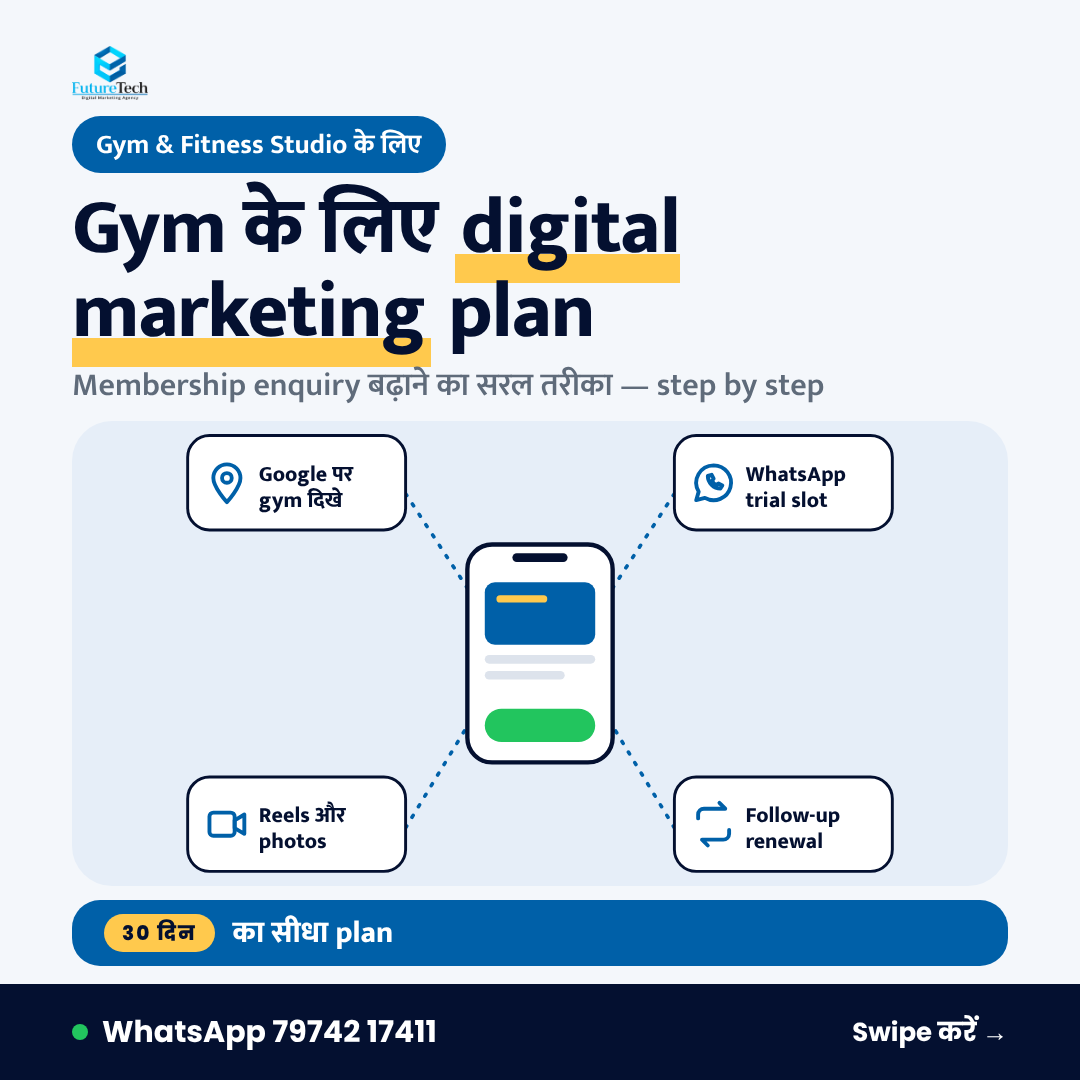
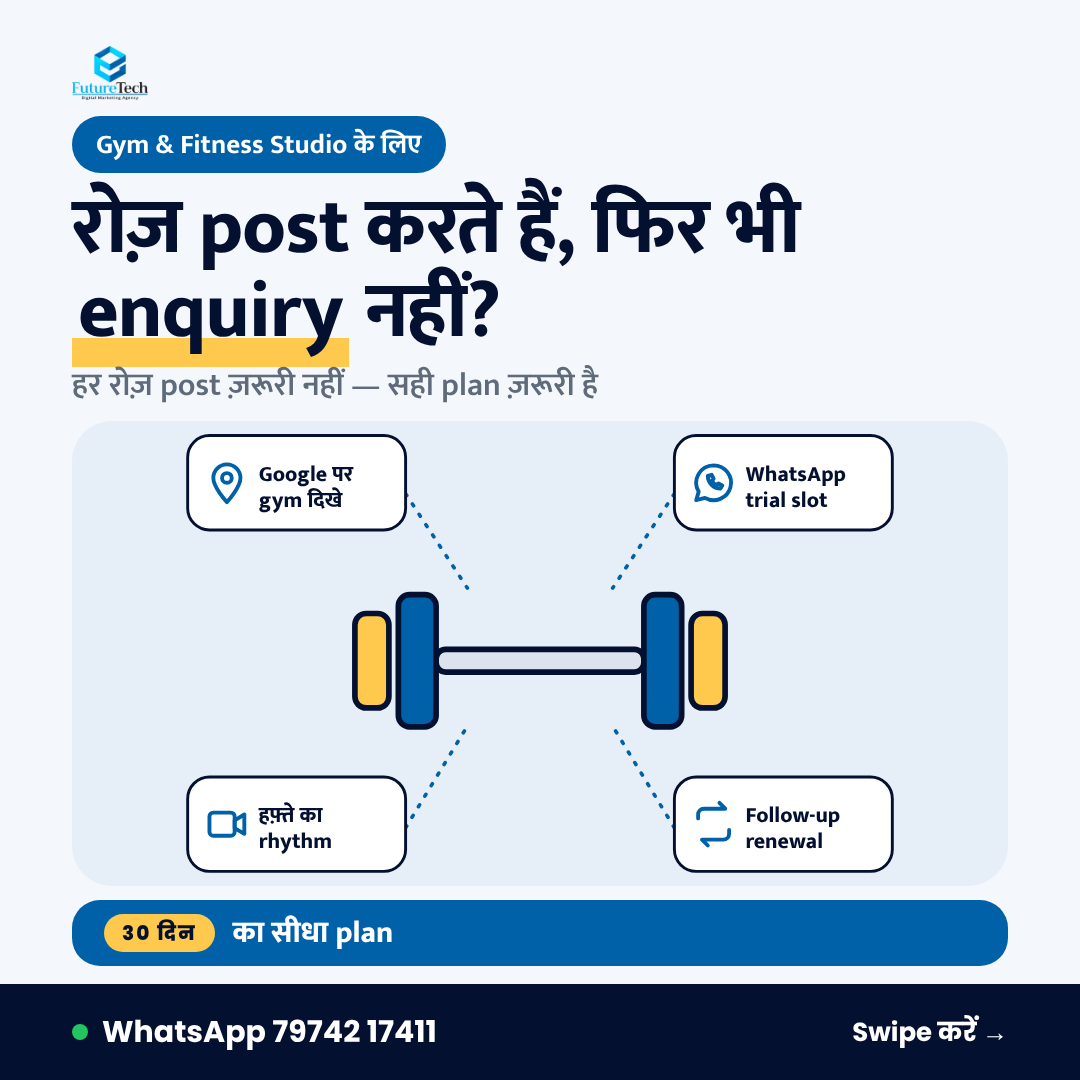
Gym carousel v2: pain-led hook, weekly rhythm (not daily), gym hero, 9 slides
Claude-Session: https://claude.ai/code/session_016LhnTTDq2p1NVPthft6u7V

diff --git a/tools/engine/lib.js b/tools/engine/lib.js
@@ -134,6 +134,7 @@ ${centerHtml}${items.map((it, i) => `<g transform="translate(${pos[i][0]} ${pos[
     phone: `<g transform="translate(400 170)"><rect width="200" height="300" rx="34" fill="#fff" stroke="${NV}" stroke-width="6"/><rect x="62" y="12" width="76" height="12" rx="6" fill="${NV}"/><rect x="24" y="52" width="152" height="86" rx="14" fill="${BL}"/><rect x="40" y="70" width="70" height="10" rx="5" fill="${GD}"/><rect x="24" y="152" width="152" height="12" rx="6" fill="#DDE3EC"/><rect x="24" y="174" width="110" height="12" rx="6" fill="#DDE3EC"/><rect x="24" y="226" width="152" height="46" rx="23" fill="${GR}"/></g>`,
     pin: `<g transform="translate(500 330)"><path d="M0 130C-90 60 -110 20 -110 -30a110 110 0 0 1 220 0C110 20 90 60 0 130z" fill="#E5484D" stroke="${NV}" stroke-width="6" stroke-linejoin="round"/><circle cx="0" cy="-30" r="42" fill="#fff" stroke="${NV}" stroke-width="5"/></g>`,
     shop: `<g transform="translate(350 190)"><path d="M0 70L30 0h240l30 70z" fill="#E5484D" stroke="${NV}" stroke-width="5" stroke-linejoin="round"/><rect x="10" y="70" width="280" height="190" fill="#fff" stroke="${NV}" stroke-width="5"/><rect x="40" y="110" width="80" height="150" fill="${BL}"/><rect x="150" y="110" width="110" height="70" rx="8" fill="#FFE7A8" stroke="${NV}" stroke-width="4"/></g>`,
+    dumbbell: `<g transform="translate(500 330) scale(1.3)" stroke="${NV}" stroke-width="6" stroke-linejoin="round" stroke-linecap="round"><rect x="-110" y="-12" width="220" height="24" rx="10" fill="#DDE3EC"/><rect x="-150" y="-70" width="40" height="140" rx="12" fill="${BL}"/><rect x="-196" y="-50" width="36" height="100" rx="12" fill="${GD}"/><rect x="110" y="-70" width="40" height="140" rx="12" fill="${BL}"/><rect x="160" y="-50" width="36" height="100" rx="12" fill="${GD}"/></g>`,
     chat: `<g transform="translate(360 200)"><rect width="280" height="230" rx="30" fill="#EFE7DC" stroke="${NV}" stroke-width="5"/><rect x="24" y="30" width="170" height="52" rx="16" fill="#fff"/><rect x="86" y="110" width="170" height="52" rx="16" fill="#D9FDD3"/><circle cx="236" cy="190" r="20" fill="${GR}"/></g>`,
   })[kind] || '',
 };

diff --git a/posts/READY_FOR_REVIEW_11Nov-10Dec.md b/posts/READY_FOR_REVIEW_11Nov-10Dec.md
@@ -15,7 +15,7 @@ Contact sheets: `posts/_review_sheets/`.
 | 21 Nov | 7:00 PM | Reel 2: Website + Google + WhatsApp | 2026-11-21_Reel_Website_Google_WhatsApp | IG FB (video) | VIDEO BUILT (silent, Hindi subtitles); voice pending |
 | 24 Nov | 8:00 AM | Greeting: Guru Nanak Jayanti | 2026-11-24_Guru_Nanak_Jayanti | IG FB GBP | Draft |
 | 25 Nov | 2:00 PM | Story poll 2 | 2026-11-25_Story_Poll_2 | Story | Draft |
-| 26 Nov | 2:00 PM | Carousel: Gym plan (8, with 7-day content calendar) | 2026-11-26_Gym_Digital_Marketing_Plan | IG FB GBP | Draft |
+| 26 Nov | 2:00 PM | Carousel: Gym — roz post nahi, sahi plan (9 slides; weekly rhythm + calendar) | 2026-11-26_Gym_Digital_Marketing_Plan | IG FB GBP | Draft |
 | 27 Nov | 2:00 PM | Single: NAP | 2026-11-27_NAP_Kya_Hota_Hai | IG FB GBP | Draft |
 | 28 Nov | 7:00 PM | Reel 3: Gym Google Profile | 2026-11-28_Reel_Gym_Google_Profile | IG FB (video) | VIDEO BUILT (silent, Hindi subtitles); voice pending |
 | 1 Dec | 2:00 PM | Carousel: Coaching/College (9, with parents' FAQ slide) | 2026-12-01_Coaching_College_Admission_Plan | IG FB GBP | Draft |
